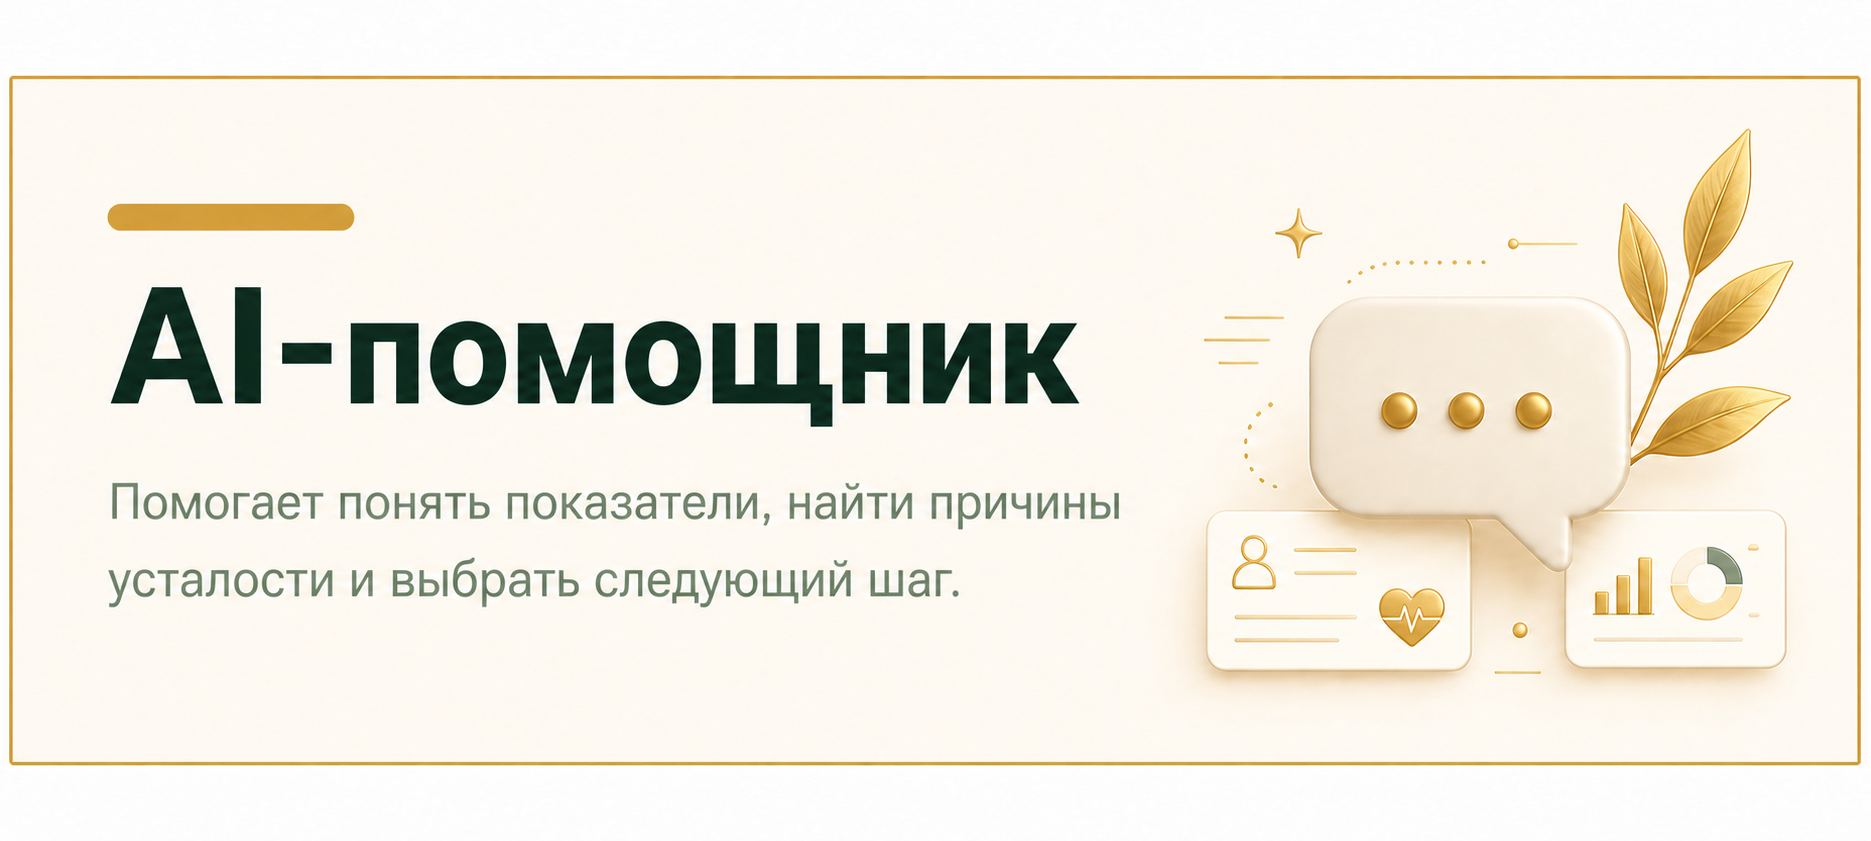
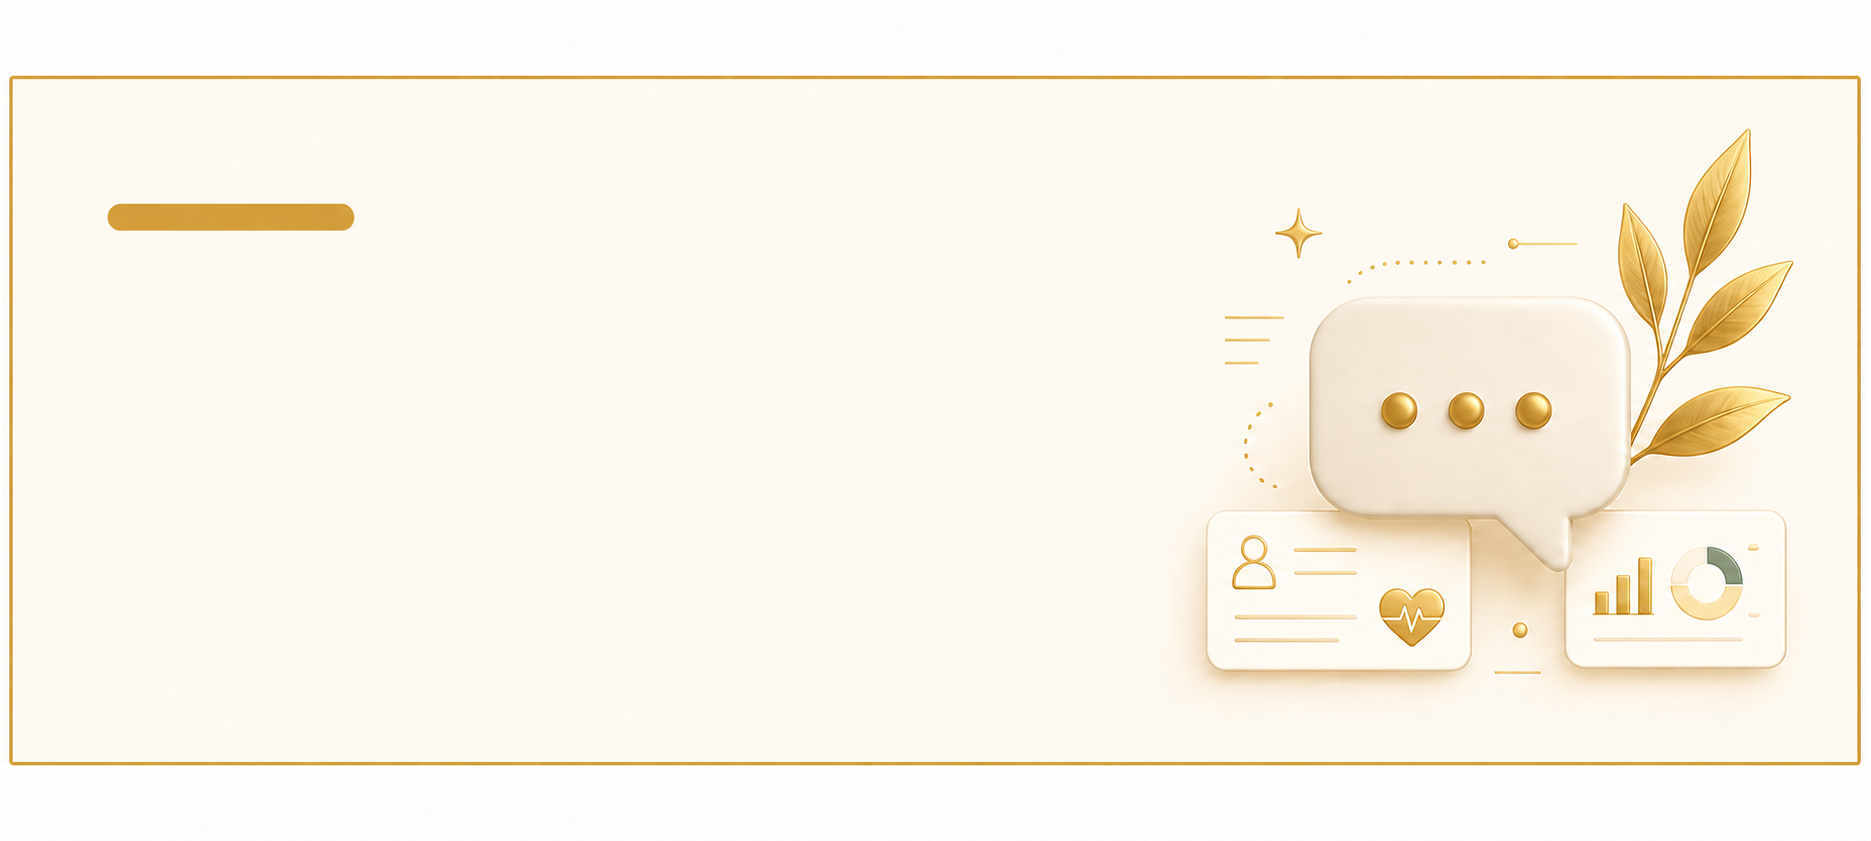
Update AI tab labels and header asset

Changed region(s): [[0.062, 0.3401, 0.589, 0.5256], [0.062, 0.5565, 0.62, 0.6183], [0.062, 0.6801, 0.527, 0.7111]]

diff --git a/app/(tabs)/_layout.tsx b/app/(tabs)/_layout.tsx
@@ -40,7 +40,7 @@ export default function TabsLayout() {
         }}
       />
       <Tabs.Screen name="body" options={{ title: t('common.body'), tabBarIcon: ({ color, size }) => <Ionicons name="body-outline" color={color} size={size} /> }} />
-      <Tabs.Screen name="ai" options={{ title: t('common.ai'), tabBarIcon: ({ color, size }) => <Ionicons name="chatbubble-ellipses-outline" color={color} size={size} /> }} />
+      <Tabs.Screen name="ai" options={{ title: t('common.ai'), tabBarLabel: 'AI', tabBarIcon: ({ color, size }) => <Ionicons name="chatbubble-ellipses-outline" color={color} size={size} /> }} />
       <Tabs.Screen name="profile" options={{ title: t('common.profile'), tabBarIcon: ({ color, size }) => <Ionicons name="person-circle-outline" color={color} size={size} /> }} />
     </Tabs>
   );

diff --git a/src/i18n/translations/ru.ts b/src/i18n/translations/ru.ts
@@ -168,7 +168,7 @@ export const ru: Record<TranslationKey, string> = {
   'ai.demoFallbackMessage': 'Сейчас показан демо-ответ на основе примера профиля. После подключения ИИ-провайдера ответы будут строиться на ваших данных.',
   'ai.examples': 'Что можно спросить',
   'ai.demoAnswerFor': 'Демо-ответ на вопрос: {question}',
-  'ai.placeholder': 'Задайте вопрос ИИ-коучу...',
+  'ai.placeholder': 'Задайте вопрос AI-ассистенту',
   'ai.send': 'Отправить вопрос',
   'ai.sendMock': 'Отправить демо-вопрос',
   'ai.generating': 'Готовим ответ...',